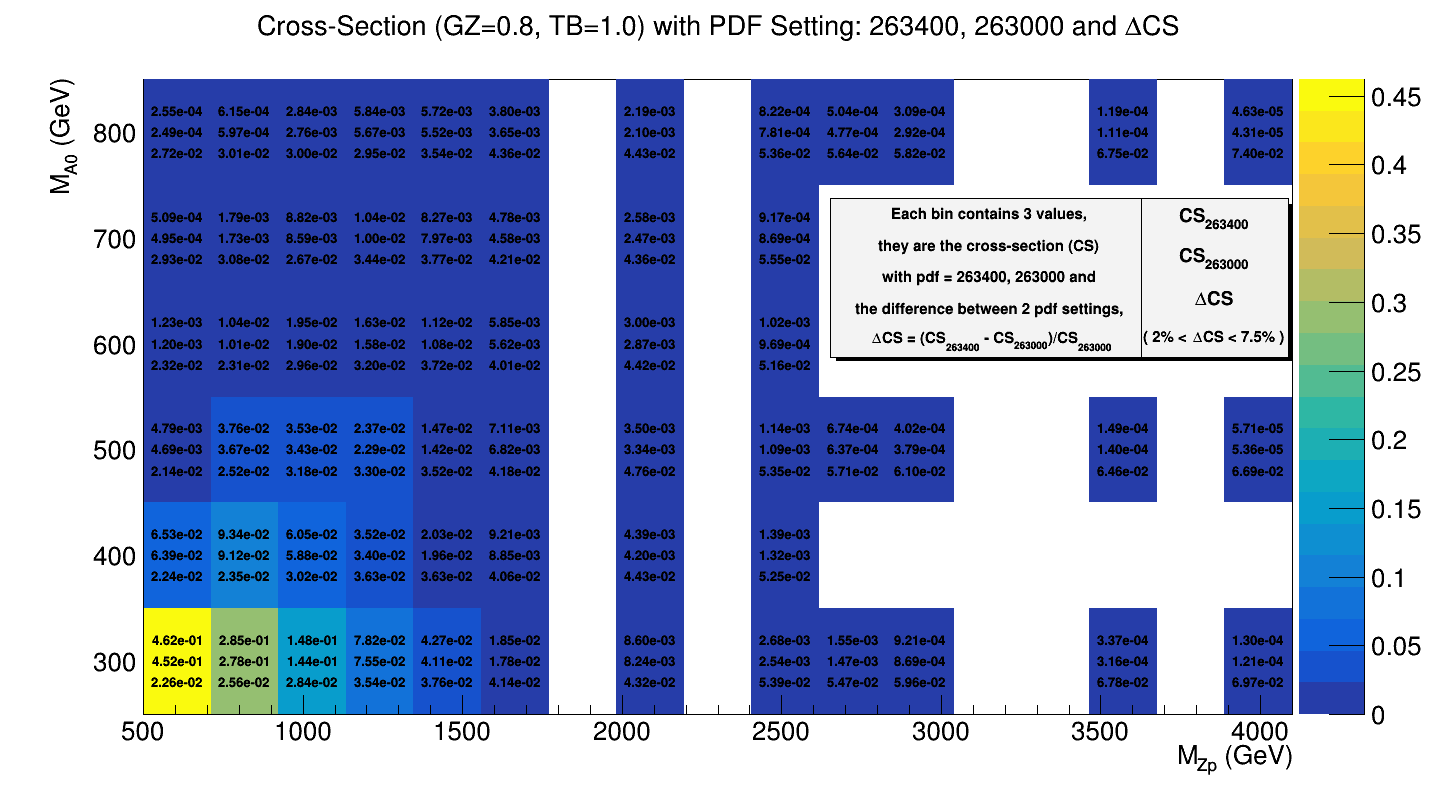
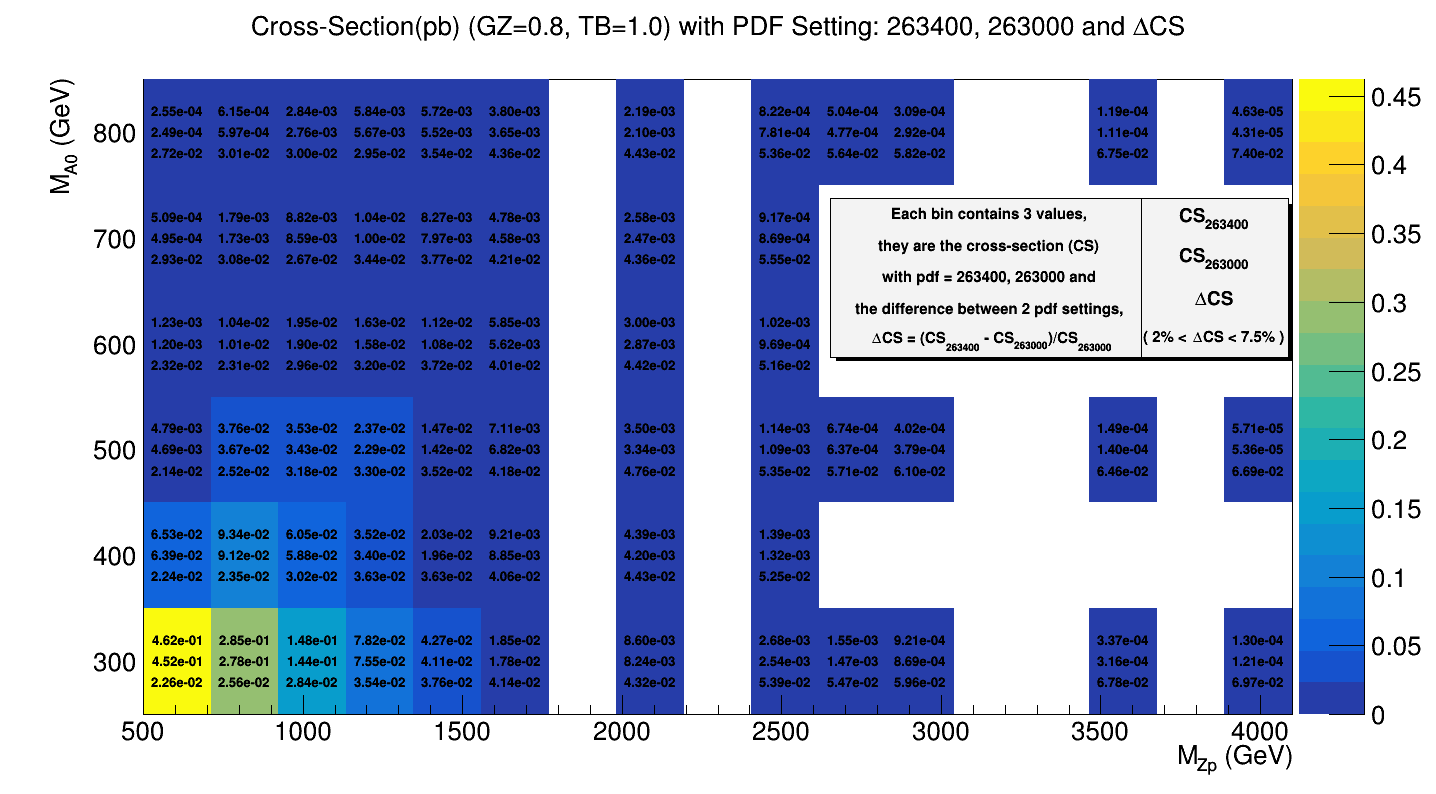
fix title

Changed region(s): [[0.1838, 0.0, 0.8273, 0.0605]]

diff --git a/diffPDF/getXsecTable.py b/diffPDF/getXsecTable.py
@@ -92,7 +92,7 @@ def main():
 	#histo_hA034 = TH2F('xsec2','Xsec(gz=0.8, tb=1.0) pdf setting 263400/263000/diff', len(xAxis)-1, xAxis, len(yAxis)-1, yAxis)
 	#histo_hA0Rate = TH2F('xsec3','Xsec(gz=0.8, tb=1.0) Rate', len(xAxis)-1, xAxis, len(yAxis)-1, yAxis)
 	histo_hA030 = TH2F('xsec1','Xsec(gz=0.8, tb=1.0) pdf setting 263000',17,500,4100,6,250,850)
-        histo_hA034 = TH2F('xsec2','Cross-Section (GZ=0.8, TB=1.0) with PDF Setting: 263400, 263000 and #DeltaCS',17,500,4100,6,250,850)
+        histo_hA034 = TH2F('xsec2','Cross-Section(pb) (GZ=0.8, TB=1.0) with PDF Setting: 263400, 263000 and #DeltaCS',17,500,4100,6,250,850)
 	histo_hA0Rate = TH2F('xsec3','Xsec(gz=0.8, tb=1.0) Rate',17,500,4100,6,250,850)
 
 	histo_hA034.SetXTitle("M_{Zp} (GeV)")
